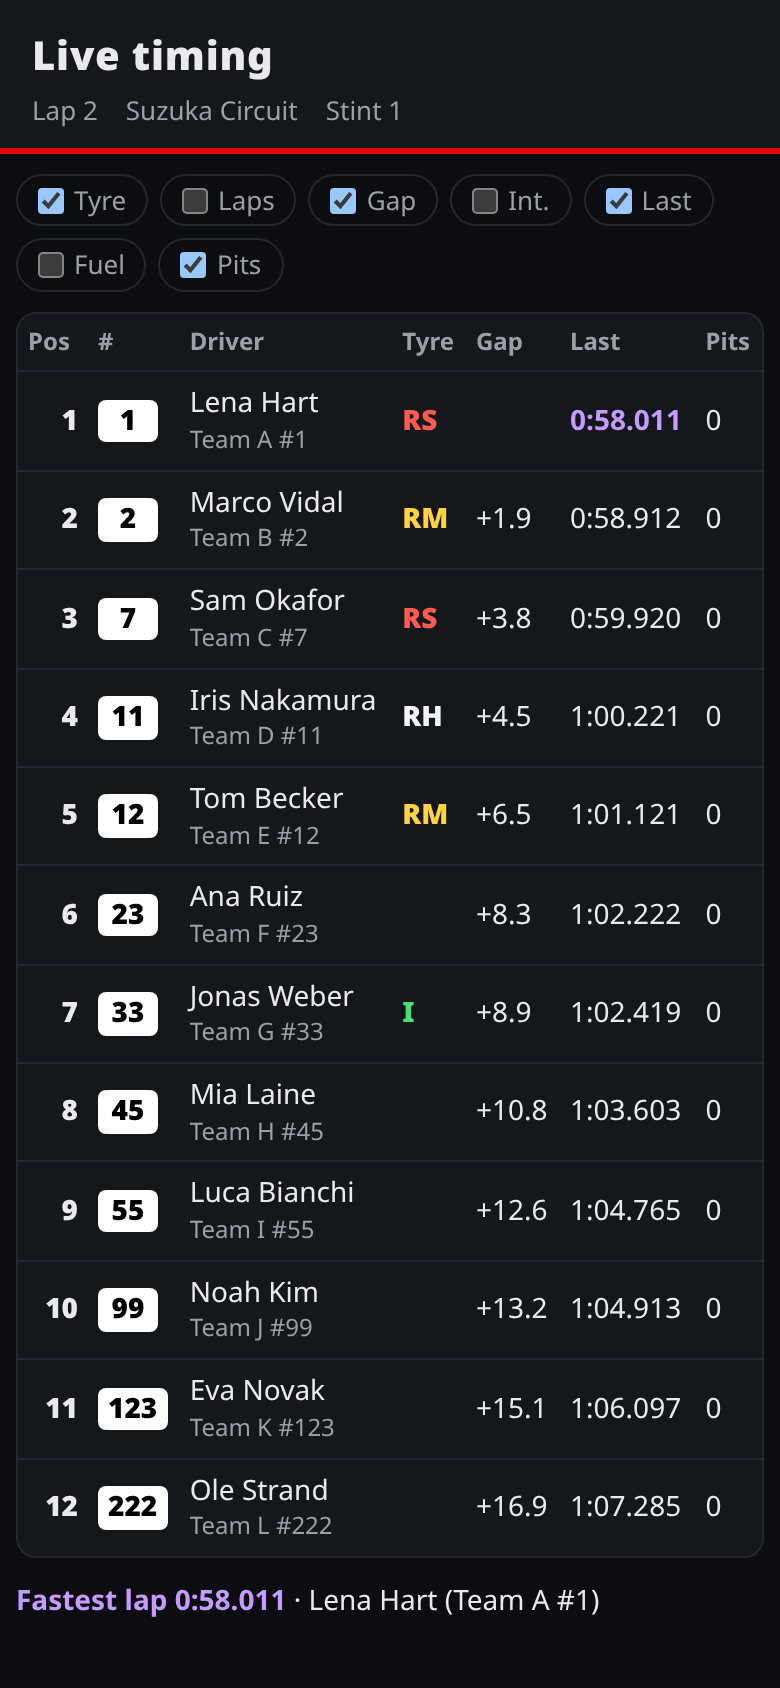
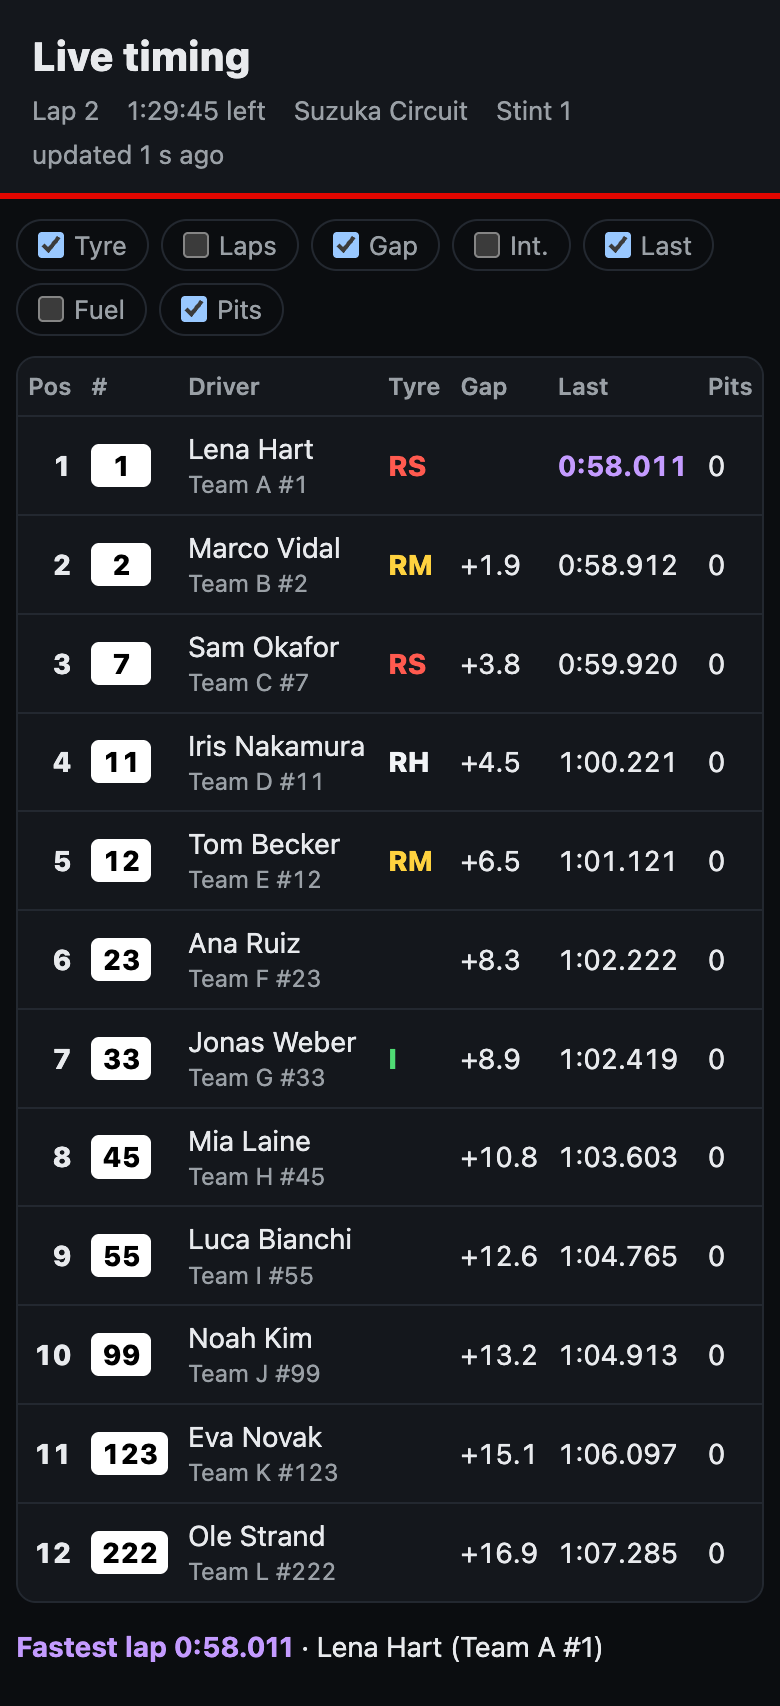
feat(timing): page follows the server's poll interval and shows the data age (#1128)

diff --git a/src/console/timing.html b/src/console/timing.html
@@ -7,7 +7,7 @@
 <title>Live timing</title>
 <style>
   :root { color-scheme: dark; --bg: #0b0d10; --panel: #14171c; --edge: #232830; --ink: #e8eaed;
-          --muted: #9aa0a6; --accent: #e10600; --purple: #c49bff; }
+          --muted: #9aa0a6; --accent: #e10600; --purple: #c49bff; --warn: #ffd361; }
   * { box-sizing: border-box; }
   body { margin: 0; background: var(--bg); color: var(--ink); font: 15px/1.4 system-ui, sans-serif; }
   header { padding: 14px 16px 10px; background: var(--panel); border-bottom: 3px solid var(--accent); }
@@ -15,6 +15,7 @@
   header h1 { margin: 0; font-size: 20px; font-weight: 800; letter-spacing: .02em; }
   #session { margin-top: 4px; color: var(--muted); font-size: 13px; display: flex; flex-wrap: wrap; gap: 4px 14px; }
   #session .flag { color: #ff6b6b; font-weight: 800; }
+  #session .stale { color: var(--warn); }
   main { padding: 12px 16px 24px; max-width: 1100px; margin: 0 auto; }
   .cols { display: flex; flex-wrap: wrap; gap: 6px; margin-bottom: 10px; }
   .cols label { display: inline-flex; align-items: center; gap: 5px; font-size: 13px; color: var(--muted);
@@ -29,7 +30,7 @@
                 font-weight: 800; background: #39414d; color: #fff; }
   td.drv { white-space: normal; min-width: 120px; }
   td.drv small { display: block; color: var(--muted); font-size: 12px; }
-  tr.box td { color: #ffd361; }
+  tr.box td { color: var(--warn); }
   tr.off td { color: var(--muted); }
   .fl { color: var(--purple); font-weight: 700; }
   .tyre { font-weight: 800; }
@@ -75,6 +76,8 @@
     if (saved !== null) hidden = new Set(JSON.parse(saved));
   } catch (e) { /* defaults */ }
   let last = null;
+  // Poll pacing comes from the server (X-Poll-After); between polls the clock runs locally.
+  let etag = null, interval = 2, got = 0, running = false, prevLeft = null;
   const $ = (id) => document.getElementById(id);
 
   function el(tag, cls, text) {
@@ -146,11 +149,17 @@
     const parts = [];
     if (quali) parts.push("Qualifying");
     else if (d.lap && d.lap.leader) parts.push("Lap " + d.lap.leader + (d.lap.count ? " / " + d.lap.count : ""));
-    if (typeof d.remaining === "number") parts.push(clock(d.remaining) + " left");
+    if (typeof d.remaining === "number") parts.push(null);
     if (d.track_name) parts.push(d.track_name);
     if (d.stint) parts.push(d.stint);
-    $("session").replaceChildren(...parts.map(function (p) { return el("span", "", p); }));
+    $("session").replaceChildren(...parts.map(function (p) {
+      const span = el("span", "", p);
+      if (p === null) span.id = "left";
+      return span;
+    }));
     if (d.red_flag) $("session").appendChild(el("span", "flag", "RED FLAG"));
+    $("session").appendChild(el("span", "", "")).id = "age";
+    tick();
     $("timing").tHead.replaceChildren(el("tr"));
     cols.forEach(function (c) { $("timing").tHead.rows[0].appendChild(el("th", "", c[1])); });
     const rows = quali ? (d.qualifying || []) : (d.entries || []);
@@ -202,17 +211,42 @@
     seen = now;
   }
 
+  // The remaining time only counts down locally while the server's value is falling.
+  function tick() {
+    const age = got ? Math.max(0, Math.round((Date.now() - got) / 1000)) : 0;
+    const left = $("left");
+    if (left && last && typeof last.remaining === "number") {
+      left.textContent = clock(Math.max(0, last.remaining - (running ? age : 0))) + " left";
+    }
+    const ageEl = $("age");
+    if (ageEl && got) {
+      ageEl.textContent = "updated " + age + " s ago";
+      ageEl.className = age > 3 * interval ? "stale" : "";
+    }
+  }
+
   async function poll() {
     let wait = 2000;
     try {
-      const res = await fetch(DATA, {cache: "no-store"});
+      const res = await fetch(DATA, {cache: "no-store", headers: etag ? {"If-None-Match": etag} : {}});
+      const pace = parseFloat(res.headers.get("X-Poll-After"));
+      if (pace >= 2) { interval = pace; wait = pace * 1000; }
       if (res.status === 429) wait = 5000;
       else if (res.status === 403) { $("state").hidden = false; $("state").textContent = "This timing link has ended."; return; }
-      else if (res.ok) { const d = await res.json(); render(d); activity(d); }
+      else if (res.status === 304) { got = Date.now(); running = false; if (last) render(last); }
+      else if (res.ok) {
+        const d = await res.json();
+        etag = res.headers.get("ETag");
+        got = Date.now();
+        running = typeof d.remaining === "number" && prevLeft !== null && d.remaining < prevLeft;
+        prevLeft = typeof d.remaining === "number" ? d.remaining : null;
+        render(d); activity(d);
+      }
     } catch (e) { wait = 5000; }
     setTimeout(poll, wait);
   }
   switches();
+  setInterval(tick, 1000);
   poll();
 </script>
 </body>
